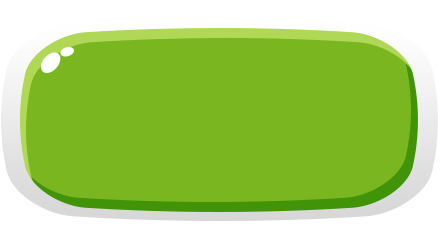
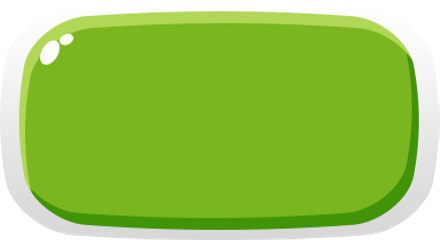
Added -dir data Added database in -dir data
-dir images:
Added form image for levels
Changes BigGreen.png. Now its clear

-file game_view:
Changed back buttons system
Changed tracking system
Connected with database

-file UT:
Added able to set lambda funcs as a sequence of commands in list
Changed ULevelsPlace text look

-file test_menu:
Changed level system. Now levels is loads from database

Changed region(s): [[0.0, 0.0292, 1.0, 1.0]]

diff --git a/code/game_view.py b/code/game_view.py
@@ -1,3 +1,5 @@
+import sqlite3
+
 import pygame
 from random import randint
 import sys
@@ -97,19 +99,26 @@ def draw_update(in_group, group_to_check):
     return True, 0
 
 
-def game_run(image_name, menu=None):
-    pygame.display.set_caption("PySquid")
-    pygame.mixer.music.load('../sound/game_musik.ogg')
-    pygame.mixer.music.set_volume(0.2)
-    pygame.mixer.music.play(-1)
+def game_run(image_name, menu=None, music_is=True):
+    con = sqlite3.connect("../data/database.sqlite")
+    cur = con.cursor()
+    if music_is:
+        pygame.display.set_caption("PySquid")
+        pygame.mixer.music.load('../sound/game_musik.ogg')
+        pygame.mixer.music.set_volume(0.2)
+        pygame.mixer.music.play(-1)
 
-    sound1 = pygame.mixer.Sound('../sound/crackling.wav')
-    pygame.mixer.Channel(0).set_volume(0.4)
-    pygame.mixer.Channel(0).play(sound1, loops=-1)
-    pygame.mixer.Channel(0).pause()
-    pygame.time.set_timer(MYEVENTTYPE, 50)
+        sound1 = pygame.mixer.Sound('../sound/crackling.wav')
+        pygame.mixer.Channel(0).set_volume(0.4)
+        pygame.mixer.Channel(0).play(sound1, loops=-1)
+        pygame.mixer.Channel(0).pause()
+        pygame.time.set_timer(MYEVENTTYPE, 50)
+
     MYEVENTTYPE2 = pygame.USEREVENT + 1
     pygame.time.set_timer(MYEVENTTYPE2, 10)
+    MYEVENTTYPE3 = pygame.USEREVENT + 2
+    pygame.time.set_timer(MYEVENTTYPE3, 500)
+
     all_sprites = pygame.sprite.Group()
     drawed_check = pygame.sprite.Group()
     drawed = pygame.sprite.Group()
@@ -122,7 +131,13 @@ def game_run(image_name, menu=None):
     Cookie(all_sprites, size)
     form = Form(values[1], image_name, all_sprites, size)
     menu.transparent = False
-    pause = UPauseButton(all_sprites, menu, screen)
+
+    def close():
+        nonlocal running
+        running = False
+
+    pause = UPauseButton(all_sprites, None, screen)
+    pause.set_gen_menu([pause.menu.close, close, pygame.mixer.music.stop])
     pause.addButton('Resume', pause.menu.close)
     pause.addButton('Quit', sys.exit)
 
@@ -136,6 +151,10 @@ def game_run(image_name, menu=None):
     time = 0.001
     font = pygame.font.SysFont('Consolas', 30)
     flag = False, count_of_values
+    process = 0
+    time_str = str(time).replace(".", ":")
+    if len(str(round(time))) <= 1:
+        time_str = "0" + time_str
     while running:
         for event in pygame.event.get():
             if event.type == pygame.QUIT:
@@ -144,12 +163,19 @@ def game_run(image_name, menu=None):
                 igla_flag = True
             if event.type == MYEVENTTYPE2:
                 time = round(time + 0.01, 2)
+            if event.type == MYEVENTTYPE3:
+                req = f"UPDATE Levels_rezult SET rezult = {process}, time = '{time_str}' WHERE Level_name = '{image_name}' AND {process} > rezult"
+                print(req)
+                cur.execute(req)
+                con.commit()
             if event.type == pygame.MOUSEBUTTONDOWN:
-                pygame.mixer.Channel(0).unpause()
+                if music_is:
+                    pygame.mixer.Channel(0).unpause()
                 mouse_sprite.rect.x, mouse_sprite.rect.y = pygame.mouse.get_pos()
                 pause_flag = pause.click_check(mouse_sprite)
             if event.type == pygame.MOUSEBUTTONUP:
-                pygame.mixer.Channel(0).pause()
+                if music_is:
+                    pygame.mixer.Channel(0).pause()
         press = pygame.mouse.get_pressed()
         pos = pygame.mouse.get_pos()
         if press[0]:
@@ -174,7 +200,7 @@ def game_run(image_name, menu=None):
         if pygame.mouse.get_focused():
             pygame.mouse.set_visible(False)
             igla.move(pos)
-        time_str = str(time).replace(".", ":")
+        time_str = str(time)
         if len(str(round(time))) <= 1:
             time_str = "0" + time_str
         screen.blit(font.render(time_str,
@@ -183,13 +209,16 @@ def game_run(image_name, menu=None):
         screen.blit(font.render(f"{process}%",
                                 True, (0, 0, 0)), (size[0] * 2 // 4 - 15, size[1] // 10))
         pygame.display.flip()
-    if not running:
+    if not running and not pause_flag:
         pygame.mixer.Channel(0).pause()
         final_win = UFinalWindow(all_sprites, screen)
-        final_win.addButton('Back', menu.mainloop)
+        final_win.addButton('Back', [final_win.menu.close, pygame.mixer.music.stop])
         final_win.addButton('Quit', sys.exit)
         if win_flag:
             print("Выиграл")
+            req = f"UPDATE Levels_rezult SET rezult = {100}, time = {time_str} WHERE Level_name = '{image_name}'"
+            print(req)
+            cur.execute(req)
             final_win.menu.setFon(load_image('../ui_images/WinPlace.png'))
         else:
             final_win.menu.setFon(load_image('../ui_images/LosePlace.png'))

diff --git a/code/UT.py b/code/UT.py
@@ -54,7 +54,11 @@ class UButton(UWidget):
 
     def click_check(self, pos):
         if pygame.sprite.collide_rect(pos, self):
-            self.func()
+            if type(self.func) == list:
+                for i in self.func:
+                    i()
+            else:
+                self.func()
 
 
 class UMenu:
@@ -91,6 +95,8 @@ class UMenu:
                         mouse_sprite.rect.x, mouse_sprite.rect.y = pygame.mouse.get_pos()
                         for i in self.all_sprites:
                             i.click_check(mouse_sprite)
+                        yes_flag = False
+            pygame.mouse.set_visible(True)
             if self.fon:
                 self.screen.blit(pygame.transform.scale(self.fon, (self.rect.w, self.rect.h)), (0, 0))
             self.all_sprites.draw(self.screen)
@@ -127,8 +133,8 @@ class ULevelsPlace(UWidget):
         self.height = self.menu.rect.h
         self.func = func
 
-    def addLevel(self, image, name):
-        self.levels.append((image, name))
+    def addLevel(self, image, text, name):
+        self.levels.append((image, name, text))
 
     def draw(self):
         self.image = pygame.Surface((self.width, self.height - 5), pygame.SRCALPHA)
@@ -143,11 +149,12 @@ class ULevelsPlace(UWidget):
                 if len(self.levels) > count:
                     image_lvl = self.levels[count][0]
                     lvl_name = self.levels[count][1]
-                    self.image.blit(pygame.transform.scale(load_image('../ui_images/BigPurple.png'),
+                    text = self.levels[count][2]
+                    self.image.blit(pygame.transform.scale(load_image('../ui_images/back_image.png', -1),
                                                            (part_x, (self.rect.h - 10) // self.cols)),
-                                    ((10 * j + part_x * (j - 1),10 + (i * self.rect.h + 10) // self.cols - 10)))
+                                    ((10 * j + part_x * (j - 1), 10 + (i * self.rect.h + 10) // self.cols - 10)))
                     cookie_img = load_image(r'..\images\cookie.png')
-                    cookie_img = pygame.transform.scale(cookie_img, (part_x, (self.rect.h - 100) // self.cols))
+                    cookie_img = pygame.transform.scale(cookie_img, (part_x, (self.rect.h - 120) // self.cols))
                     self.image.blit(cookie_img,
                                     (10 * j + part_x * (j - 1),
                                      10 + (i * self.rect.h + 10) // self.cols))
@@ -159,9 +166,9 @@ class ULevelsPlace(UWidget):
                                      10 + (i * self.rect.h + 10) // self.cols + image_lvl.get_height() // 2))
 
                     font = pygame.font.Font(pygame.font.match_font('calibri'), 20)
-                    text_pg = font.render(f'{lvl_name}', True, (0, 0, 0))
+                    text_pg = font.render(text, True, (255, 255, 255))
                     self.image.blit(text_pg, (10 + 10 * (j + 1) + part_x * (j - 1),
-                                              (((i + 1) * self.rect.h + 10) // self.cols) - text_pg.get_height()))
+                                              (((i + 1) * self.rect.h) // self.cols) - text_pg.get_height() - 5))
                     count += 1
 
     def click_check(self, pos):
@@ -170,7 +177,7 @@ class ULevelsPlace(UWidget):
             cell_y = (pos.rect.y - 10) // self.cell_size_y
             if cell_x < 0 or cell_x >= self.rows or cell_y < 0 or cell_y >= self.cols:
                 return
-            self.func('../images/' + self.levels[(cell_y * self.rows) + cell_x][1], self.menu)
+            self.func(self.levels[(cell_y * self.rows) + cell_x][1], self.menu)
 
     def change_size(self, width, height):
         self.width = width
@@ -229,7 +236,11 @@ class UBackButton(UWidget):
 
     def click_check(self, pos):
         if pygame.sprite.collide_rect(pos, self):
-            self.gen_menu()
+            if type(self.gen_menu) == list:
+                for i in self.gen_menu:
+                    i()
+            else:
+                self.gen_menu()
 
 
 class UPauseMenu(UWidget):
@@ -268,7 +279,7 @@ class UPauseButton(pygame.sprite.Sprite):
             return True
 
     def go_to_pause(self):
-        UBackButton(self.menu, (600, 400, 100, 100), self.gen_menu.mainloop)
+        UBackButton(self.menu, (600, 400, 100, 100), self.gen_menu)
         pygame.mixer.Channel(0).pause()
         ps_menu = UPauseMenu(self.menu)
         for text, func in self.buttons:
@@ -278,6 +289,9 @@ class UPauseButton(pygame.sprite.Sprite):
 
     def addButton(self, text, func):
         self.buttons.append((text, func))
+
+    def set_gen_menu(self, gen_menu):
+        self.gen_menu = gen_menu
 
 
 class UFinalWindow(pygame.sprite.Sprite):

diff --git a/code/test_menu.py b/code/test_menu.py
@@ -2,7 +2,7 @@ import sys
 
 import pygame
 from game_view import game_run
-from support_funcs import load_image
+from support_funcs import load_image, get_levels
 from UT import UMenu, ULevelsPlace, UBackButton, UButton, UMusicButton
 
 
@@ -11,21 +11,17 @@ def go_to_levels():
     menu_lvl = UMenu(screen2, color='Gray', transparent=False)
     levels_place = ULevelsPlace(menu_lvl, start_the_game)
     levels_place.change_size(700, 450)
-    levels_place.addLevel(load_image(r'..\images\triangle.png', -1), 'triangle')
-    levels_place.addLevel(load_image(r'..\images\circle.png', -1), 'circle')
-    levels_place.addLevel(load_image(r'..\images\sueta.png', -1), 'sueta')
-    levels_place.addLevel(load_image(r'..\images\star4.png', -1), 'star4')
-    levels_place.addLevel(load_image(r'..\images\heart.png', -1), 'heart')
-    levels_place.addLevel(load_image(r'..\images\star5.png', -1), 'star5')
-    levels_place.addLevel(load_image(r'..\images\star6.png', -1), 'star6')
-    levels_place.addLevel(load_image(r'..\images\lighting.png', -1), 'lighting')
-    levels_place.addLevel(load_image(r'..\images\cloud.png', -1), 'cloud')
-    UBackButton(menu_lvl, (0, 450, 50, 50), main)
+    for name, res, time in get_levels():
+        if res is None:
+            levels_place.addLevel(load_image(fr'..\images\{name}.png', -1), f'{name}', name)
+        else:
+            levels_place.addLevel(load_image(fr'..\images\{name}.png', -1), f'{name}, {res}%, {time}sec', name)
+    UBackButton(menu_lvl, (0, 450, 50, 50), menu_lvl.close)
     menu_lvl.mainloop()
 
 
-def start_the_game(lvl_name, menu):
-    game_run(lvl_name, menu)
+def start_the_game(lvl_name, menu1):
+    game_run(lvl_name, menu1, not msc_btn.music_is)
 
 
 def main():

diff --git a/code/support_funcs.py b/code/support_funcs.py
@@ -3,6 +3,7 @@ import os
 import pygame
 import sys
 from random import randint as ran
+import sqlite3
 
 
 def load_image(path, colorkey=None, flag=True):
@@ -53,3 +54,14 @@ class SpriteMouseLocation(pygame.sprite.Sprite):
     def __init__(self):
         pygame.sprite.Sprite.__init__(self)
         self.rect = pygame.Rect(0, 0, 1, 1)
+
+
+def get_levels():
+    con = sqlite3.connect('../data/database.sqlite')
+    cur = con.cursor()
+    data = cur.execute('SELECT * FROM Levels_rezult').fetchall()
+    con.close()
+    return data
+
+
+print(get_levels())
